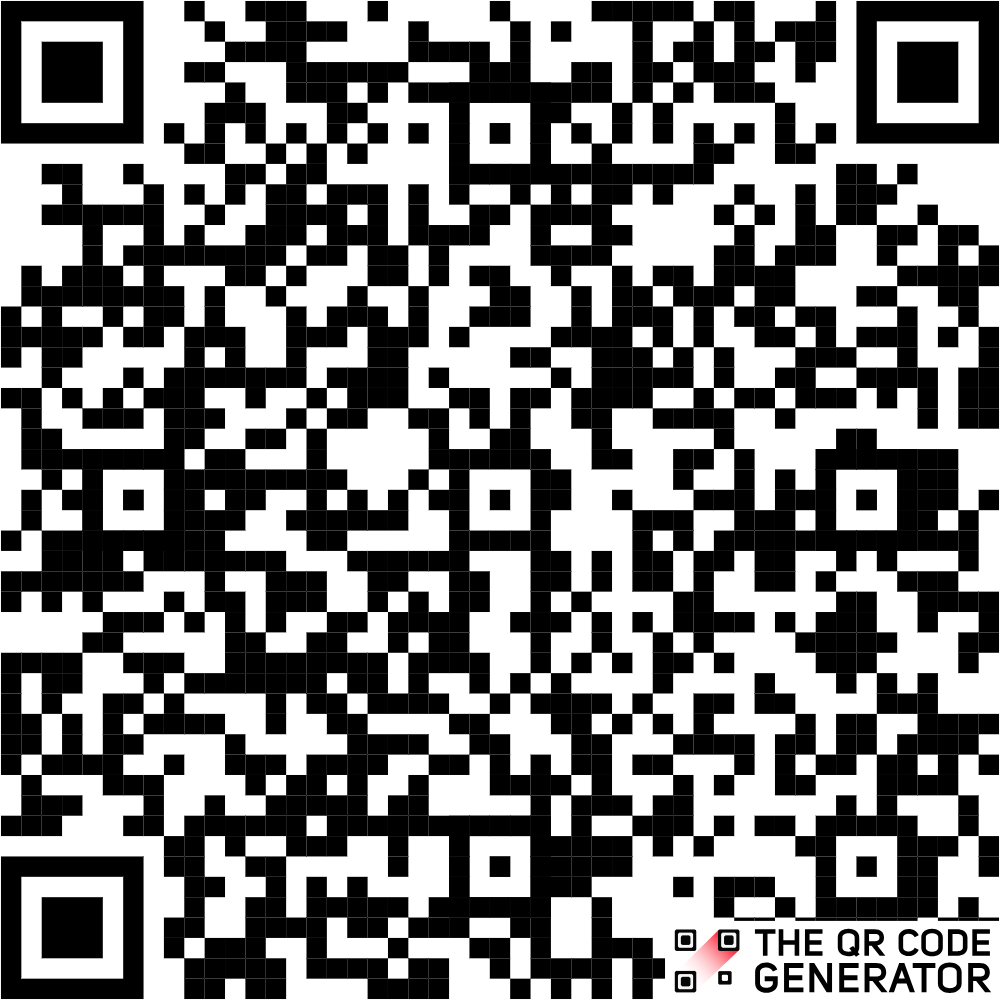
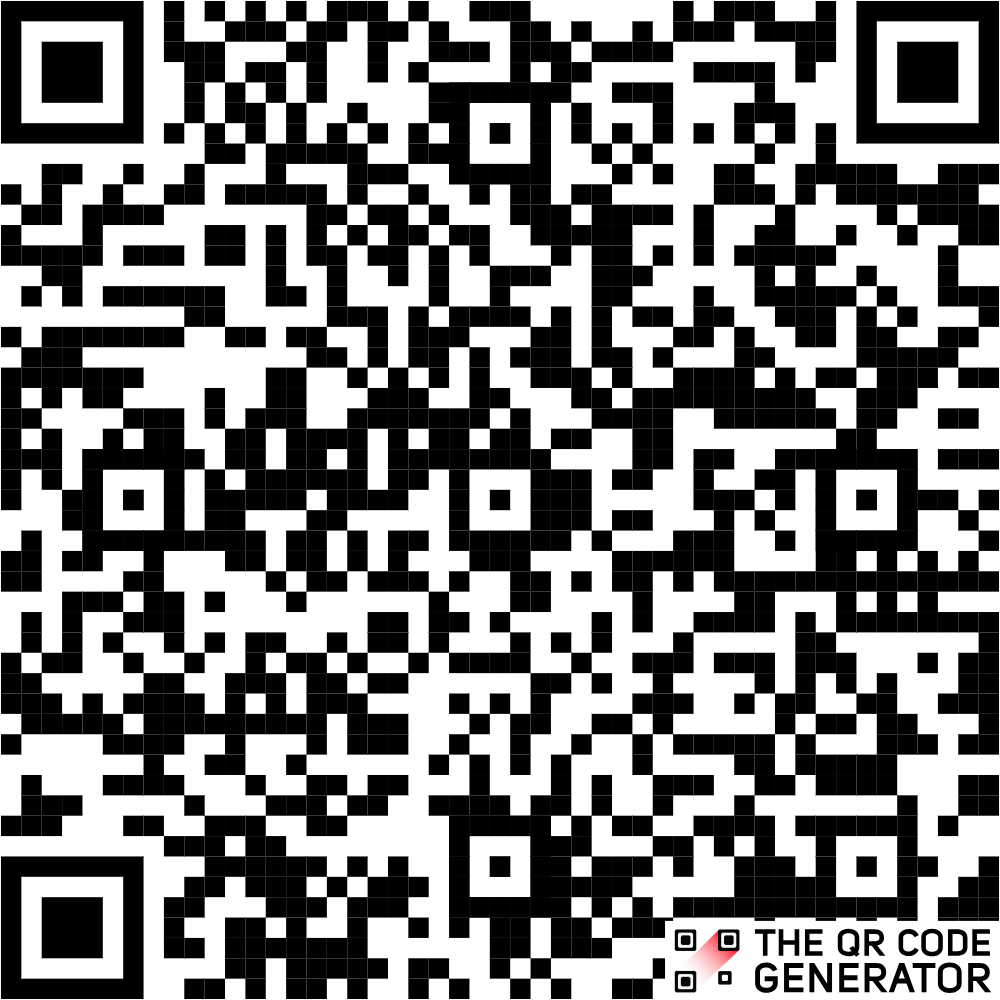
second version

diff --git a/index.html b/index.html
@@ -656,7 +656,7 @@
         
         <div class="download-options animate delay-3">
           <!-- Manual download button -->
-          <a href="https://drive.google.com/uc?export=download&id=19X-IKcf51eRdpff7FiR55wLiLKLleaBP" class="btn" download="Harmonia.apk">
+          <a href="https://drive.google.com/file/d/1OsRNWXsDYrIwictacD5pFdjwMN3noyxj/view?usp=drive_link" class="btn" download="Harmonia.apk">
             <i class="fas fa-download"></i> Direct Download
           </a>
         </div>
